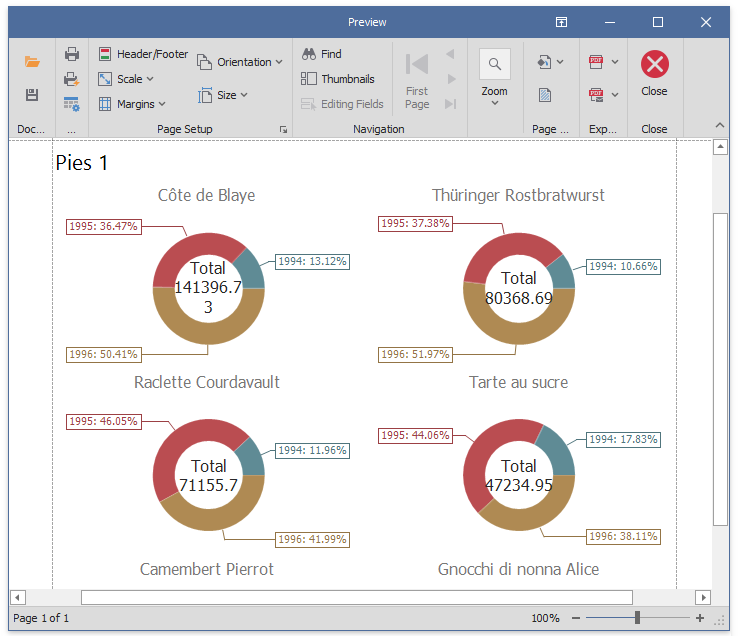
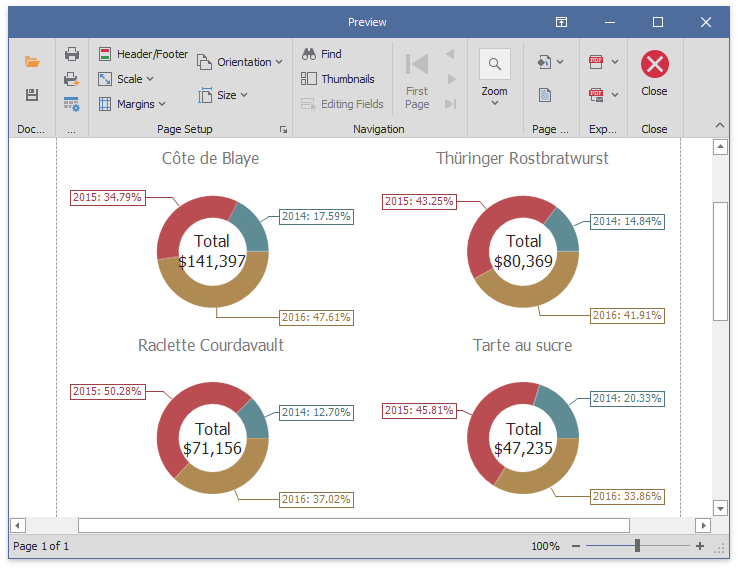
change data source

diff --git a/CS/piesCustomExport/Form1.cs b/CS/piesCustomExport/Form1.cs
@@ -32,6 +32,7 @@ namespace piesCustomExport
                 foreach (Series series in e.ChartControl.Series)
                 {
                     (series.View as PieSeriesView).TotalLabel.Visible = true;
+                    (series.View as PieSeriesView).TotalLabel.TextPattern = "Total {TV:c0}";
                 }
             }
         }
@@ -50,6 +51,7 @@ namespace piesCustomExport
                     foreach (Series series in pieChart.Series)
                     {
                         (series.View as PieSeriesView).TotalLabel.Visible = true;
+                        (series.View as PieSeriesView).TotalLabel.TextPattern = "Total {TV:c0}";
                     }
                 }
             }
